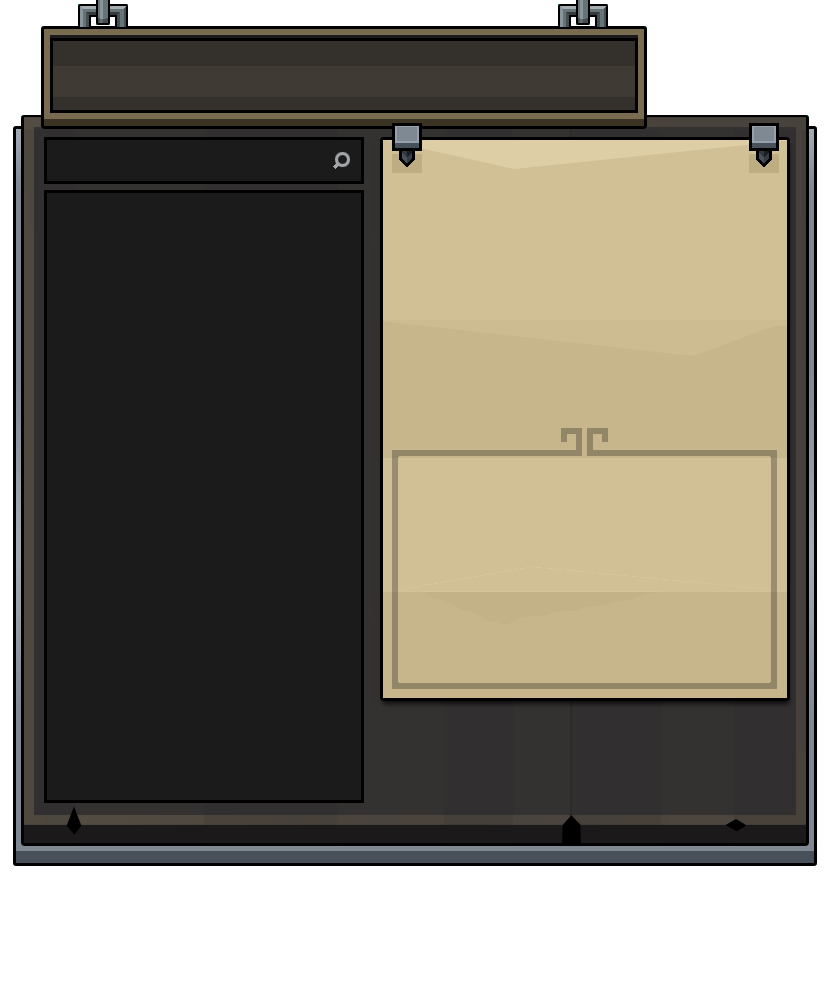
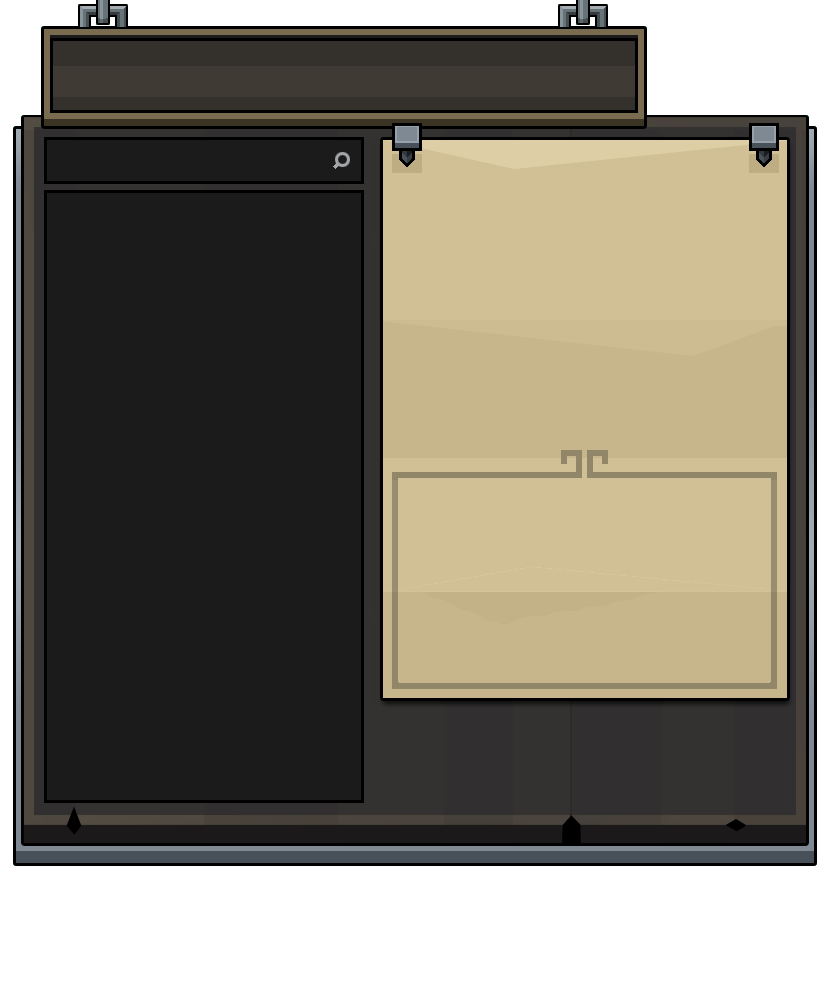
More styling cleanup in the workshop ui

Changed region(s): [[0.4643, 0.403, 0.9286, 0.496]]

diff --git a/source/stonehearth_data/mods/stonehearth/ui/game/show_workshop/show_workshop.less b/source/stonehearth_data/mods/stonehearth/ui/game/show_workshop/show_workshop.less
@@ -182,6 +182,20 @@
    }
 
    #details {
+      h1 {
+         font-size: 34px !important;
+         color: rgba(0,0,0,0.8);
+         padding: 0px 25px;
+      }
+
+      h2 {
+         .noOutline;
+         font-size: 22px;
+         color: rgba(0,0,0,0.8);
+         padding: 0px;
+         margin: 0px;
+      }
+
       .parchment;
       position: absolute;
       top: 0px;
@@ -191,33 +205,20 @@
 
       #portraitContainer {
          position: absolute;
-         top: 90px;
+         top: 110px;
          width: 430px;
          display: block;
          text-align: center;
 
          #portrait {
             width: auto;
-            height: 200px;
-         }
-      }
-
-      #ingredients {
-         position: absolute;
-         top: 320px;
-         left: 30px;
-
-         .wood {
-            background: url('/stonehearth/data/images/crafting/recipe_sockets/wood.png');
-         }
-         .cloth {
-            background: url('/stonehearth/data/images/crafting/recipe_sockets/cloth.png');
+            height: 180px;
          }
       }
 
       #description {
          position: absolute;
-         top: 360px;
+         top: 350px;
          bottom: 45px;
          left: 30px;
          width: 360px;

diff --git a/source/stonehearth_data/mods/stonehearth/ui/game/show_workshop/show_workshop.html b/source/stonehearth_data/mods/stonehearth/ui/game/show_workshop/show_workshop.html
@@ -4,7 +4,7 @@
       <div id="shingle">
          <a id="closeButton" {{action hide target="view"}}></a>
          <div id="title">{{unit_info.name}}</div>
-         <div id="subtitle">TODO: insert crafter name here: {{skinClass}}</div>
+         <div id="subtitle">{{stonehearth:workshop.crafter.unit_info.name}}</div>
       </div>
 
       {{#if stonehearth:workshop.order_list}}
@@ -67,13 +67,13 @@
          <img id="portrait">
       </div>
 
-      <div id="ingredients">
-         {{#each model.ingredients}}
-            {{material}} {{count}} <br>
-         {{/each}}
-      </div>
-
       <div id="description">
+         <h2>{{i18n stonehearth:craft_ingredients}}</h2>
+         {{#each model.ingredients}}
+            {{count}} {{material}}<br>
+         {{/each}}
+
+         <br><br>
          <div id="usefulText"></div>
          <div id="flavorText"></div>
       </div>

diff --git a/source/stonehearth_data/mods/stonehearth/ui/root/css/variables.less b/source/stonehearth_data/mods/stonehearth/ui/root/css/variables.less
@@ -28,8 +28,7 @@
 @sansFontFamily:        Arial;
 @serifFontFamily:       'AutourOneRegular';
 @monoFontFamily:        Monaco;
-@headerFontFamily:      'palameciaregular';
-//@controlFontFamily:     'palameciaregular'; 
+@headerFontFamily:      'groboldregular';
 @controlFontFamily:     'groboldregular';
 @parchmentFontFamily:   'blackbeardregular';
 @baseFontSize:          18px;

diff --git a/source/stonehearth_data/mods/stonehearth/ui/game/show_workshop/show_workshop.js b/source/stonehearth_data/mods/stonehearth/ui/game/show_workshop/show_workshop.js
@@ -18,6 +18,7 @@ App.StonehearthCrafterView = App.View.extend({
       "unit_info": {},
       "stonehearth:workshop": {
          "crafter": {
+            "unit_info" : {},
             "stonehearth:crafter": {
                "craftable_recipes" : {
                   "recipes" : []

diff --git a/source/stonehearth_data/mods/stonehearth/ui/root/css/material_parchment.less b/source/stonehearth_data/mods/stonehearth/ui/root/css/material_parchment.less
@@ -7,7 +7,7 @@
    h1 {
       .noOutline;
       color: #000;
-      font-family: 'blackbeardregular' !important;
+      font-family: @controlFontFamily;
       font-size: 45px;
       font-weight: bold;
       text-align: center;
